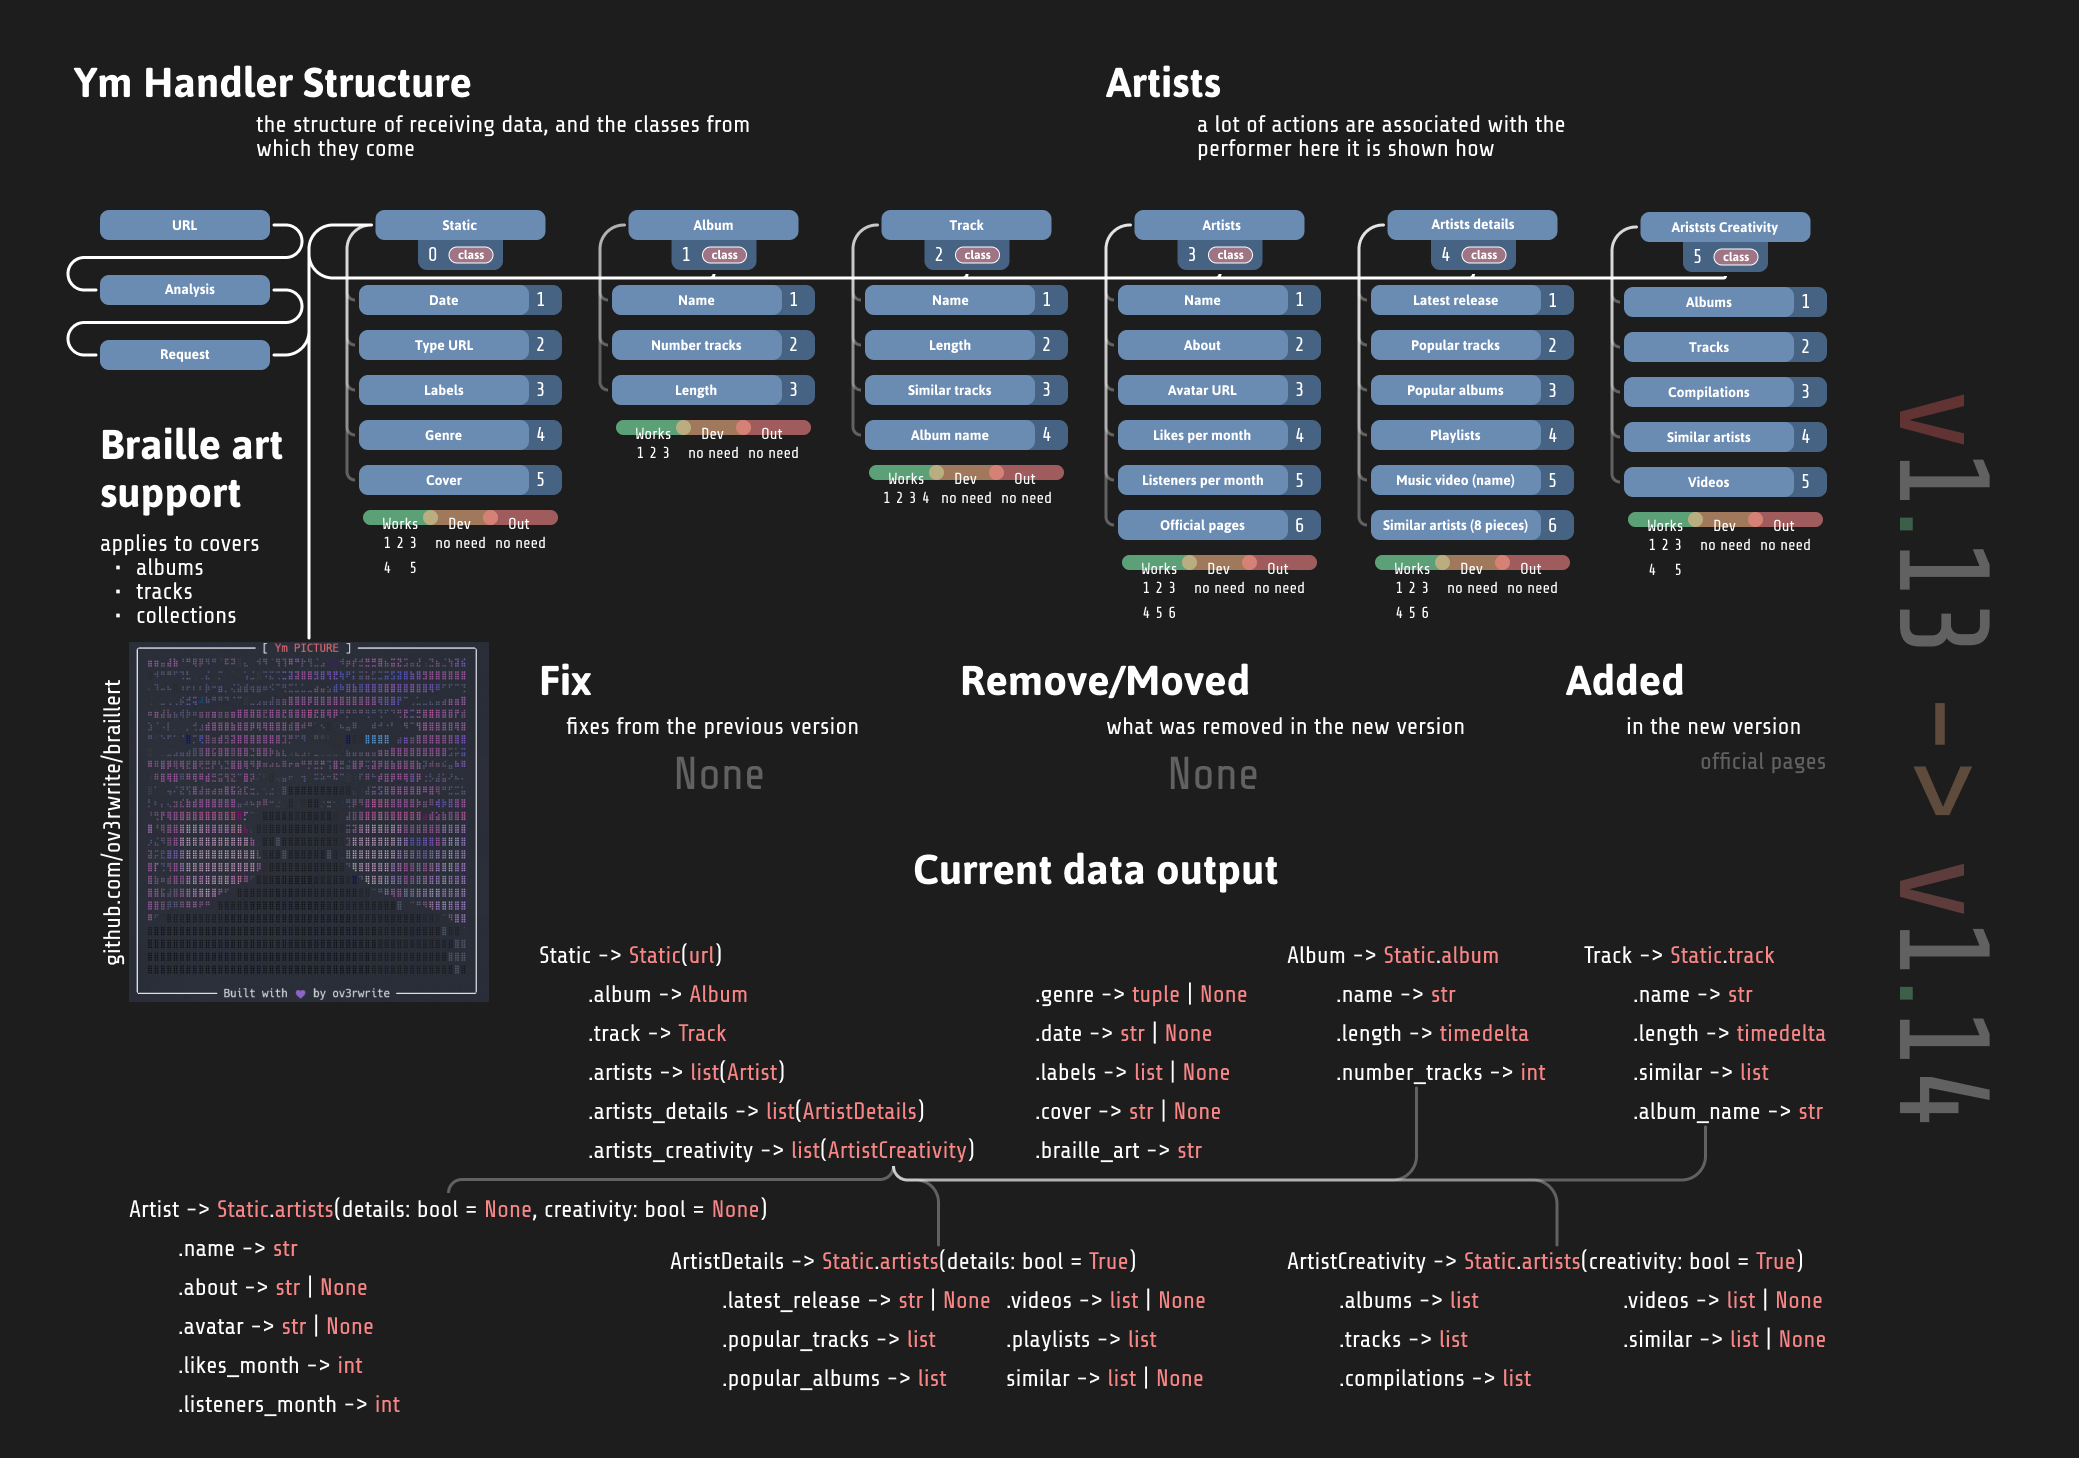
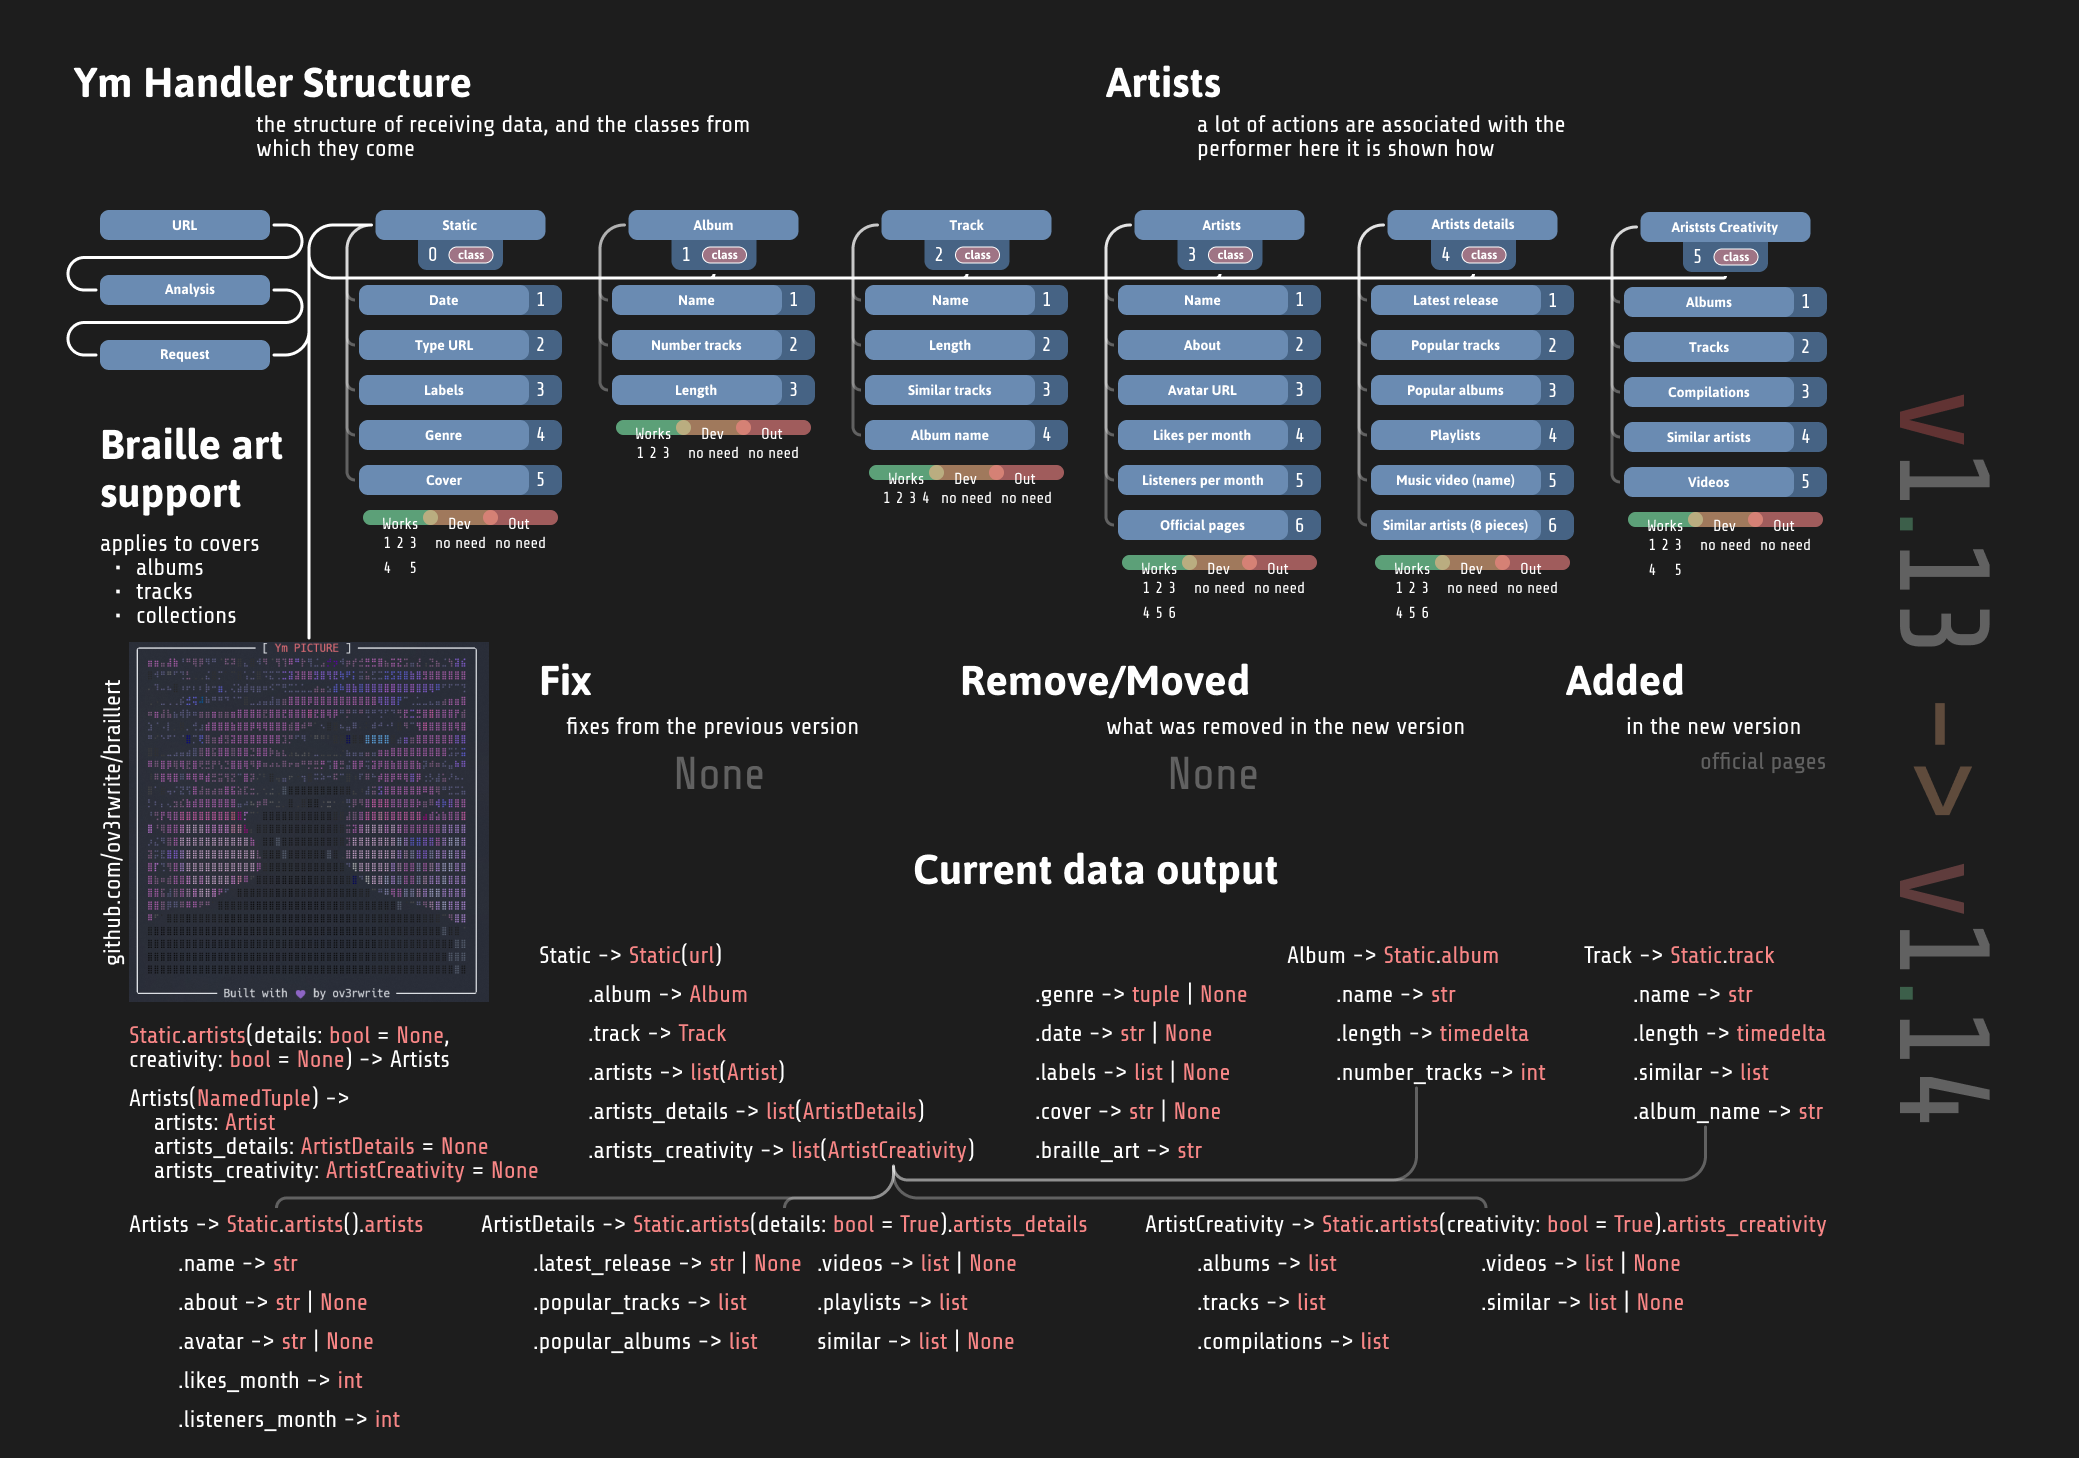
initial pypi

Changed region(s): [[0.0616, 0.7099, 0.862, 0.9877]]

diff --git a/src/ymhandler/parser.py b/src/ymhandler/parser.py
@@ -7,7 +7,7 @@ from braillert.colors import RICH_COLORS, RICH_RESETTER
 from braillert.generator import Generator
 from PIL import Image
 
-from parsing.request import Request
+from ymhandler.requester import RequestUrls
 
 # Consts
 
@@ -250,7 +250,7 @@ class Artist:
     """return Artist class"""
 
     def __init__(self, artist_id: str) -> None:
-        self.__parse = Request(YM_ARTIST + artist_id + "/info").parse_url()
+        self.__parse = RequestUrls(YM_ARTIST + artist_id + "/info").parse_url()
         self.url = YM_ARTIST + artist_id
         self.__name = None
         self.__avatar = None
@@ -416,7 +416,7 @@ class ArtistDetails:
     """a class for getting great details about an artist"""
 
     def __init__(self, artist_id: str) -> str:
-        self.__parse = Request(YM_ARTIST + artist_id).parse_url()
+        self.__parse = RequestUrls(YM_ARTIST + artist_id).parse_url()
         self.__popular_tracks = None
         self.__last_release = None
         self.__popular_albums = None
@@ -549,7 +549,7 @@ class ArtistCreativity:
         """checks whether compilations are available on the site or not"""
 
         if not self.__parse_albums:
-            self.__parse_albums = Request(
+            self.__parse_albums = RequestUrls(
                 YM_ARTIST + self.__artist_code + "/albums"
             ).parse_url()
 
@@ -605,7 +605,9 @@ class ArtistCreativity:
 
         if not self.__tracks:
 
-            __parse = Request(YM_ARTIST + self.__artist_code + "/tracks").parse_url()
+            __parse = RequestUrls(
+                YM_ARTIST + self.__artist_code + "/tracks"
+            ).parse_url()
 
             temp = re.search(
                 r"<span(?:\s+[^<]*)typo\stypo-h2_bold(?:.+)class=\"sidebar__place"
@@ -654,7 +656,7 @@ class ArtistCreativity:
 
         if not self.__similar:
 
-            temp = Request(YM_ARTIST + self.__artist_code + "/similar").parse_url()
+            temp = RequestUrls(YM_ARTIST + self.__artist_code + "/similar").parse_url()
 
             self.__similar = _fix_symbol(
                 re.findall(
@@ -672,7 +674,7 @@ class ArtistCreativity:
         """return a list of all videos"""
 
         if not self.__videos:
-            self.__videos = Request(
+            self.__videos = RequestUrls(
                 YM_ARTIST + self.__artist_code + "/videos"
             ).parse_url()
 
@@ -734,7 +736,7 @@ class Static:
             else:
                 self.type_url = "track"
                 self.__track_id = answer.get("track")
-            return Request(match.group()).parse_url()
+            return RequestUrls(match.group()).parse_url()
 
         raise TypeError("Incorrect URL")
 
@@ -915,7 +917,7 @@ class Static:
         """return the finished braille art"""
 
         if not self.__braille_art:
-            Request(url).parse_img()
+            RequestUrls(url).parse_img()
             image = Image.open("image.jpg")
             width = 138
             wpercent = width / float(image.size[0])

diff --git a/src/ymhandler/main.py b/src/ymhandler/main.py
@@ -3,14 +3,10 @@ import argparse
 from rich.console import Console
 from rich.panel import Panel
 
-from parsing.parser import Static
+from ymhandler.parser import Static
 
 # Consts
 
-# EXAMPLE_LINKS = (
-#     "https://music.yandex.com/album/123123",
-#     "https://music.yandex.com/album/123123/track/123123",
-# )
 STATIC = "[ [bold red]Ym STATIC[/bold red] ] [bold yellow]\u21AF[/bold yellow]"
 INFO = "[ [bold red]Ym INFO[/bold red] ] [bold yellow]\u21AF[/bold yellow]"
 DETAILS = "[ [bold red]Ym DETAILS[/bold red] ] [bold yellow]\u21AF[/bold yellow]"
@@ -23,7 +19,6 @@ YELEND = "[/bold yellow]"
 GREEND = "[/bold green]"
 VERSION = "v1.14.1"
 console = Console(highlight=False)
-
 
 # Utilitarian functions
 
@@ -192,7 +187,7 @@ def output_console(url: str, det: bool, creat: bool, cover: bool) -> None:
         Panel.fit(
             f"{GRE}Ym Handler{GREEND} - "
             "by [bold red]uewquewqueqwue[/bold red]"
-            f"(only regex \U0001F638 \U0001F63C) {GRE}< qdissh@gmail.com >{GREEND}",
+            f"(only regex \U0001F638 \U0001F63C \U0001F63D) {GRE}< qdissh@gmail.com >{GREEND}",
             title="[bold yellow]Information[/bold yellow]",
             subtitle=f"[bold yellow]{VERSION}[/bold yellow]",
         )

diff --git a/src/ymhandler/requester.py b/src/ymhandler/requester.py
@@ -3,7 +3,7 @@ import asyncio
 import aiohttp
 
 
-class Request:
+class RequestUrls:
     """gets page requests"""
 
     HEADERS: dict = {"User-Agent": "Magic Browser"}
@@ -15,7 +15,7 @@ class Request:
 
     def parse_url(self) -> str | None:
         """return html page"""
-        print(self.__url)
+        # print(self.__url)
 
         return self.event_loop.run_until_complete(self.request())
 
@@ -29,7 +29,7 @@ class Request:
 
         async with aiohttp.ClientSession(headers=self.HEADERS) as session:
             async with session.get(self.__url) as response:
-                print(response.status)
+                # print(response.status)
                 if response.status == 200:
                     self.status = 200
                     return await response.text()

diff --git a/setup.py b/setup.py
@@ -1,0 +1,28 @@
+from setuptools import setup, find_packages
+
+requirements = [
+    "rich ~= 12.4.4",
+    "braillert ~= 2.0.1",
+    "colorama ~= 0.4.4",
+    "pillow ~= 9.1.1",
+    "aiohttp ~=  3.7.4.post0",
+]
+
+
+setup(
+    name="YmHandler",
+    version="1.14.1",
+    packages=find_packages("src"),
+    package_dir={"": "src"},
+    include_package_data=True,
+    author="uewquewqueqwue",
+    author_email="qdissh@gmail.com",
+    install_requires=requirements,
+    url="https://github.com/uewquewqueqwue/Ym-Handler",
+    license="MIT",
+    entry_points={
+        "console_scripts": [
+            "ymhandler = ymhandler.main:main",
+        ],
+    },
+)

diff --git a/README.md b/README.md
@@ -1,13 +1,19 @@
-# Ym-Handler 😽
+<div align="center">
 
-yandex music url analyzer that outputs the information you need about your url
+  <h1>Ym-Handler 😸 😼 😽</h1>
 
-[![CodeFactor](https://www.codefactor.io/repository/github/uewquewqueqwue/ym-handler/badge)](https://www.codefactor.io/repository/github/uewquewqueqwue/ym-handler)
+  yandex music url analyzer that outputs the information you need about your url
+
+  [![CodeFactor](https://www.codefactor.io/repository/github/uewquewqueqwue/ym-handler/badge)](https://www.codefactor.io/repository/github/uewquewqueqwue/ym-handler)
+  [![Python](https://img.shields.io/badge/python-3.8+-blue.svg)](https://www.python.org/downloads/release/python-383/)
+
+</div>
 
 ### Ym Structure v1.14
 
 [![Ym sctructure](https://github.com/uewquewqueqwue/Ym-Handler/blob/main/update_images/v1_14.png)](https://github.com/uewquewqueqwue/Ym-Handler/blob/main/update_images/v1_14.png)
 
+view in [Figma](https://www.figma.com/file/Wu2cqQOeofdxYhjvnFHaZE/v1.14)
 ### Ym Structure v1.13
 
 [![Ym sctructure](https://github.com/uewquewqueqwue/Ym-Handler/blob/main/update_images/v1_13.png)](https://github.com/uewquewqueqwue/Ym-Handler/blob/main/update_images/v1_13.png)
